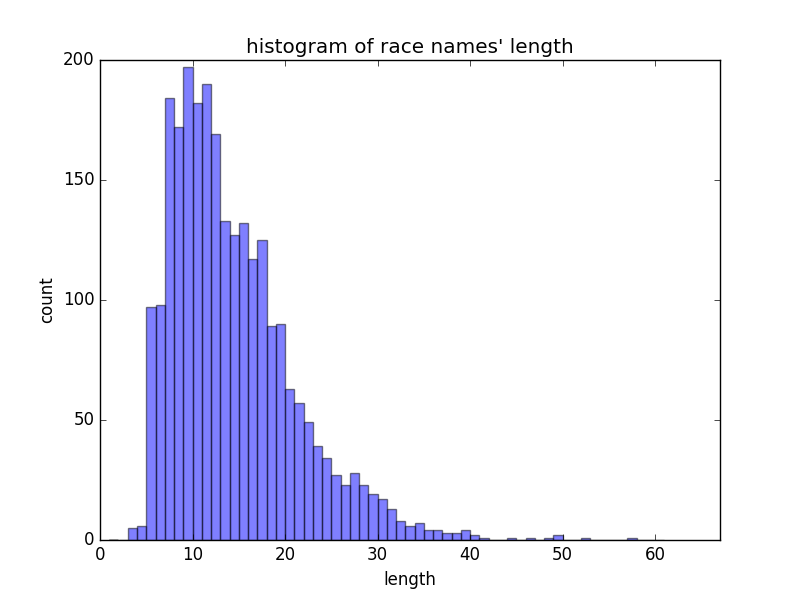
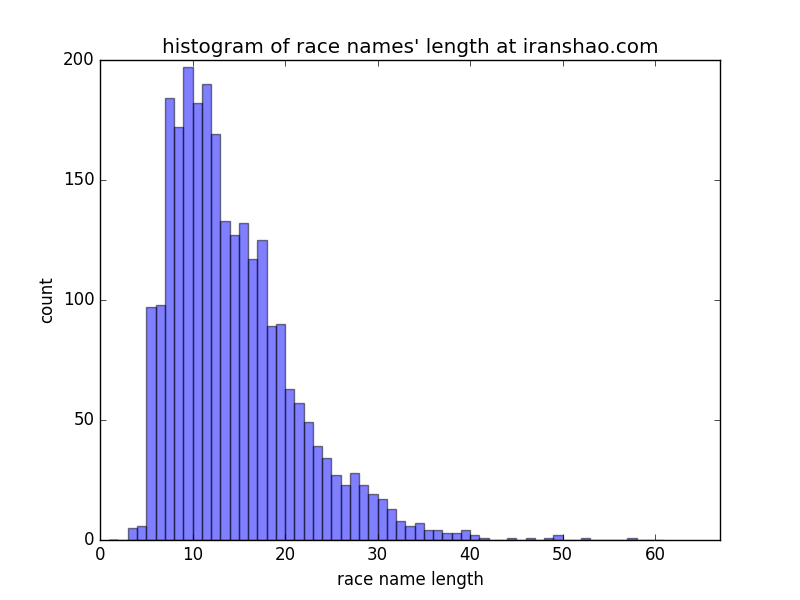
init

Changed region(s): [[0.1875, 0.06, 0.8125, 0.09], [0.4062, 0.96, 0.5938, 0.99]]

diff --git a/race_name_len.py b/race_name_len.py
@@ -27,8 +27,8 @@ bins = np.arange(1,max(data),1)
 fig, ax = plt.subplots() 
 plt.xlim([0, max(data)+5])
 plt.hist(data, bins=bins, alpha=0.5)
-plt.title('histogram of race names\' length')
-plt.xlabel('length')
+plt.title('histogram of race names\' length at iranshao.com')
+plt.xlabel('race name length')
 plt.ylabel('count')
 
 
